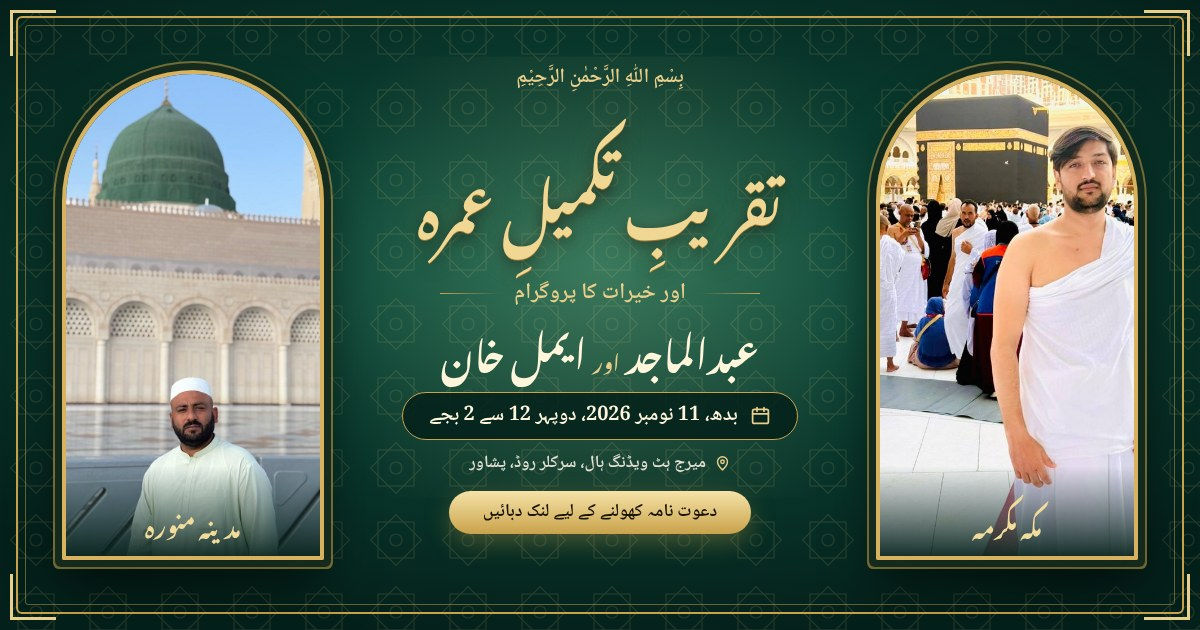
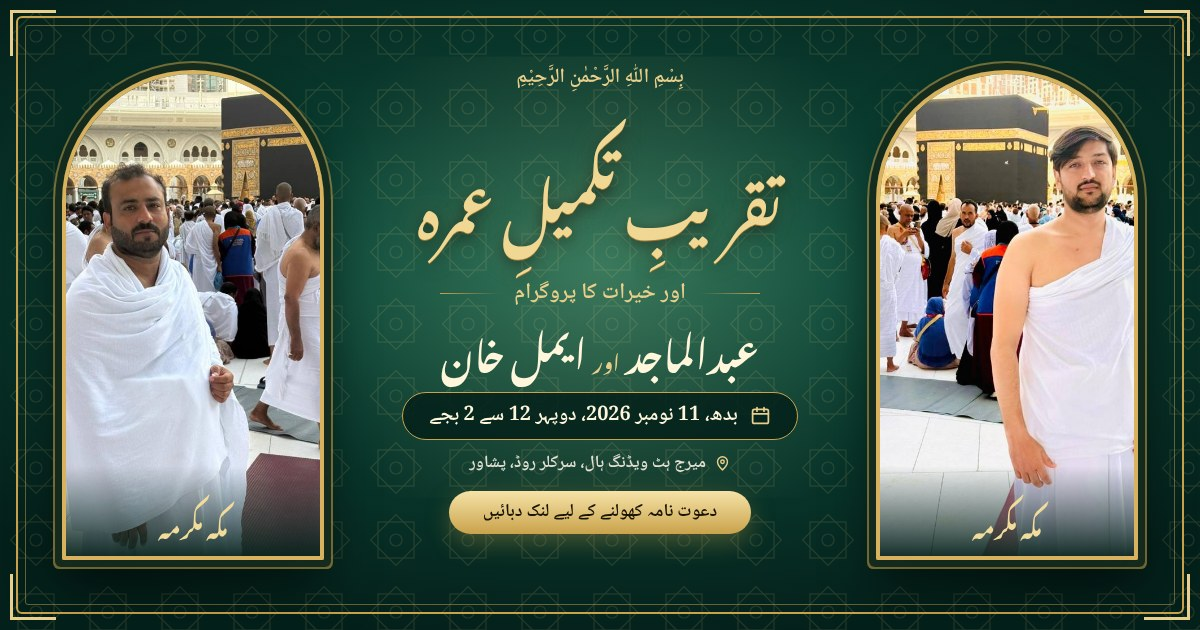
Thumbnails: Makkah photos of both (#12)
* UI polish: raise tiny text (dock labels, drag hint, footer) to 13px and improve hint contrast

Claude-Session: https://claude.ai/code/session_01PSUVtb5hPzZw6eqWCLbAgH

* Details upgrade: add English lines to date, time, venue, address and program; remove duplicated date/time row from location card

Claude-Session: https://claude.ai/code/session_01PSUVtb5hPzZw6eqWCLbAgH

* SEO and a11y upgrade: Event JSON-LD, canonical, og:locale, twitter tags; countdown as timer (no live-region spam); lang=en on English lines

Claude-Session: https://claude.ai/code/session_01PSUVtb5hPzZw6eqWCLbAgH

* Add UX profile, CLAUDE.md; no-JS fallback, press feedback, calendar reminders and description

Claude-Session: https://claude.ai/code/session_01PSUVtb5hPzZw6eqWCLbAgH

* Add full English version with language switch, Tailwind CSS pipeline, landscape/short-screen layout, offline support

- src/i18n.js: Urdu/English switch (text, labels, alt text, meta, WhatsApp text, copy/share text), ltr layout, remembered choice, ?lang=en
- Tailwind CSS 3 (prefix tw-, preflight off) compiled to src/tw.css and inlined by build.py; used for the new language button
- Short viewport rules for landscape phones, 320px fixes
- manifest + network-first service worker for offline opening

Claude-Session: https://claude.ai/code/session_01PSUVtb5hPzZw6eqWCLbAgH

* Stop Vercel from auto-running a build: rename npm scripts, add vercel.json for static serving
[…]

Changed region(s): [[0.0308, 0.1206, 0.2775, 0.8746]]

diff --git a/index.html b/index.html
@@ -8,27 +8,27 @@
 <meta property="og:title" content="تقریبِ تکمیلِ عمرہ کا دعوت نامہ">
 <meta property="og:description" content="بدھ 11 نومبر 2026، دوپہر 12 سے 2 بجے، میرج ہٹ ویڈنگ ہال، سرکلر روڈ، پشاور">
 <meta property="og:site_name" content="دعوت نامہ، Umrah Invitation">
-<meta property="og:image" content="https://umrah-psi.vercel.app/og.jpg?v=11nov3">
-<meta property="og:image:secure_url" content="https://umrah-psi.vercel.app/og.jpg?v=11nov3">
+<meta property="og:image" content="https://umrah-psi.vercel.app/og.jpg?v=11nov4">
+<meta property="og:image:secure_url" content="https://umrah-psi.vercel.app/og.jpg?v=11nov4">
 <meta property="og:image:type" content="image/jpeg">
 <meta property="og:image:width" content="1200"><meta property="og:image:height" content="630">
 <meta property="og:image:alt" content="تقریبِ تکمیلِ عمرہ کا دعوت نامہ">
-<meta property="og:image" content="https://umrah-psi.vercel.app/thumbnails/umrah-invite-square.jpg?v=11nov3">
+<meta property="og:image" content="https://umrah-psi.vercel.app/thumbnails/umrah-invite-square.jpg?v=11nov4">
 <meta property="og:image:type" content="image/jpeg">
 <meta property="og:image:width" content="1080"><meta property="og:image:height" content="1080">
 <meta property="og:url" content="https://umrah-psi.vercel.app/">
 <meta name="twitter:card" content="summary_large_image">
 <meta name="twitter:title" content="تقریبِ تکمیلِ عمرہ کا دعوت نامہ">
-<meta name="twitter:image" content="https://umrah-psi.vercel.app/og.jpg?v=11nov3">
+<meta name="twitter:image" content="https://umrah-psi.vercel.app/og.jpg?v=11nov4">
 <meta name="twitter:image:alt" content="تقریبِ تکمیلِ عمرہ کا دعوت نامہ">
-<link rel="image_src" href="https://umrah-psi.vercel.app/og.jpg?v=11nov3">
+<link rel="image_src" href="https://umrah-psi.vercel.app/og.jpg?v=11nov4">
 <meta property="og:locale" content="ur_PK">
 <meta name="color-scheme" content="dark">
 <link rel="manifest" href="manifest.webmanifest">
 <link rel="apple-touch-icon" href="thumbnails/umrah-invite-square.jpg">
 <link rel="canonical" href="https://umrah-psi.vercel.app/">
 <noscript><style>#gate{display:none!important}body.locked{overflow:auto!important;height:auto!important;touch-action:auto!important}.reveal{opacity:1!important;transform:none!important}</style></noscript>
-<script type="application/ld+json">{"@context":"https://schema.org","@type":"Event","name":"تقریبِ تکمیلِ عمرہ (Umrah Completion Celebration)","description":"عمرہ کی تکمیل پر خیرات (دعوتِ طعام) کی تقریب۔","startDate":"2026-11-11T12:00:00+05:00","endDate":"2026-11-11T14:00:00+05:00","eventStatus":"https://schema.org/EventScheduled","eventAttendanceMode":"https://schema.org/OfflineEventAttendanceMode","inLanguage":"ur","image":"https://umrah-psi.vercel.app/og.jpg?v=11nov3","location":{"@type":"Place","name":"Marriage Hut Wedding Hall","address":{"@type":"PostalAddress","streetAddress":"Circular Road, near Haidri Petrol Pump","addressLocality":"Peshawar","addressCountry":"PK"}}}</script>
+<script type="application/ld+json">{"@context":"https://schema.org","@type":"Event","name":"تقریبِ تکمیلِ عمرہ (Umrah Completion Celebration)","description":"عمرہ کی تکمیل پر خیرات (دعوتِ طعام) کی تقریب۔","startDate":"2026-11-11T12:00:00+05:00","endDate":"2026-11-11T14:00:00+05:00","eventStatus":"https://schema.org/EventScheduled","eventAttendanceMode":"https://schema.org/OfflineEventAttendanceMode","inLanguage":"ur","image":"https://umrah-psi.vercel.app/og.jpg?v=11nov4","location":{"@type":"Place","name":"Marriage Hut Wedding Hall","address":{"@type":"PostalAddress","streetAddress":"Circular Road, near Haidri Petrol Pump","addressLocality":"Peshawar","addressCountry":"PK"}}}</script>
 <meta name="theme-color" content="#04201A">
 <title>تقریبِ تکمیلِ عمرہ کا دعوت نامہ</title>
 <style>*,:after,:before{--tw-border-spacing-x:0;--tw-border-spacing-y:0;--tw-translate-x:0;--tw-translate-y:0;--tw-rotate:0;--tw-skew-x:0;--tw-skew-y:0;--tw-scale-x:1;--tw-scale-y:1;--tw-pan-x: ;--tw-pan-y: ;--tw-pinch-zoom: ;--tw-scroll-snap-strictness:proximity;--tw-gradient-from-position: ;--tw-gradient-via-position: ;--tw-gradient-to-position: ;--tw-ordinal: ;--tw-slashed-zero: ;--tw-numeric-figure: ;--tw-numeric-spacing: ;--tw-numeric-fraction: ;--tw-ring-inset: ;--tw-ring-offset-width:0px;--tw-ring-offset-color:#fff;--tw-ring-color:rgba(59,130,246,.5);--tw-ring-offset-shadow:0 0 #0000;--tw-ring-shadow:0 0 #0000;--tw-shadow:0 0 #0000;--tw-shadow-colored:0 0 #0000;--tw-blur: ;--tw-brightness: ;--tw-contrast: ;--tw-grayscale: ;--tw-hue-rotate: ;--tw-invert: ;--tw-saturate: ;--tw-sepia: ;--tw-drop-shadow: ;--tw-backdrop-blur: ;--tw-backdrop-brightness: ;--tw-backdrop-contrast: ;--tw-backdrop-grayscale: ;--tw-backdrop-hue-rotate: ;--tw-backdrop-invert: ;--tw-backdrop-opacity: ;--tw-backdrop-saturate: ;--tw-backdrop-sepia: ;--tw-contain-size: ;--tw-contain-layout: ;--tw-contain-paint: ;--tw-contain-style: }::backdrop{--tw-border-spacing-x:0;--tw-border-spacing-y:0;--tw-translate-x:0;--tw-translate-y:0;--tw-rotate:0;--tw-skew-x:0;--tw-skew-y:0;--tw-scale-x:1;--tw-scale-y:1;--tw-pan-x: ;--tw-pan-y: ;--tw-pinch-zoom: ;--tw-scroll-snap-strictness:proximity;--tw-gradient-from-position: ;--tw-gradient-via-position: ;--tw-gradient-to-position: ;--tw-ordinal: ;--tw-slashed-zero: ;--tw-numeric-figure: ;--tw-numeric-spacing: ;--tw-numeric-fraction: ;--tw-ring-inset: ;--tw-ring-offset-width:0px;--tw-ring-offset-color:#fff;--tw-ring-color:rgba(59,130,246,.5);--tw-ring-offset-shadow:0 0 #0000;--tw-ring-shadow:0 0 #0000;--tw-shadow:0 0 #0000;--tw-shadow-colored:0 0 #0000;--tw-blur: ;--tw-brightness: ;--tw-contrast: ;--tw-grayscale: ;--tw-hue-rotate: ;--tw-invert: ;--tw-saturate: ;--tw-sepia: ;--tw-drop-shadow: ;--tw-backdrop-blur: ;--tw-backdrop-brightness: ;--tw-backdrop-contrast: ;--tw-backdrop-grayscale: ;--tw-backdrop-hue-rotate: ;--tw-backdrop-invert: ;--tw-backdrop-opacity: ;--tw-backdrop-saturate: ;--tw-backdrop-sepia: ;--tw-contain-size: ;--tw-contain-layout: ;--tw-contain-paint: ;--tw-contain-style: }.tw-sr-only{position:absolute;width:1px;height:1px;padding:0;margin:-1px;overflow:hidden;clip:rect(0,0,0,0);white-space:nowrap;border-width:0}.tw-fixed{position:fixed}.tw-end-3{inset-inline-end:.75rem}.tw-top-2\.5{top:.625rem}.tw-z-\[60\]{z-index:60}.tw-m-0{margin:0}.tw-mx-auto{margin-left:auto;margin-right:auto}.tw-mb-0{margin-bottom:0}.tw-mb-1{margin-bottom:.25rem}.tw-mb-3{margin-bottom:.75rem}.tw-mb-6{margin-bottom:1.5rem}.tw-mt-0{margin-top:0}.tw-mt-1{margin-top:.25rem}.tw-mt-2{margin-top:.5rem}.tw-mt-3{margin-top:.75rem}.tw-mt-4{margin-top:1rem}.tw-mt-8{margin-top:2rem}.tw-block{display:block}.tw-flex{display:flex}.tw-inline-flex{display:inline-flex}.tw-grid{display:grid}.tw-min-h-\[44px\]{min-height:44px}.tw-min-h-\[48px\]{min-height:48px}.tw-w-full{width:100%}.tw-max-w-3xl{max-width:48rem}.tw-cursor-pointer{cursor:pointer}.tw-grid-cols-2{grid-template-columns:repeat(2,minmax(0,1fr))}.tw-flex-wrap{flex-wrap:wrap}.tw-items-end{align-items:flex-end}.tw-items-center{align-items:center}.tw-justify-between{justify-content:space-between}.tw-gap-2{gap:.5rem}.tw-gap-3{gap:.75rem}.tw-overflow-x-auto{overflow-x:auto}.tw-rounded-2xl{border-radius:1rem}.tw-rounded-full{border-radius:9999px}.tw-rounded-xl{border-radius:.75rem}.tw-border{border-width:1px}.tw-border-0{border-width:0}.tw-border-\[\#F0A6A0\]\/60{border-color:hsla(5,73%,78%,.6)}.tw-border-gold\/30{border-color:rgba(201,162,75,.3)}.tw-border-gold\/40{border-color:rgba(201,162,75,.4)}.tw-border-gold\/60{border-color:rgba(201,162,75,.6)}.tw-border-gold\/70{border-color:rgba(201,162,75,.7)}.tw-bg-\[\#7A1F2B\]\/30{background-color:rgba(122,31,43,.3)}.tw-bg-em\/30{background-color:rgba(14,75,59,.3)}.tw-bg-em\/40{background-color:rgba(14,75,59,.4)}.tw-bg-gold2{--tw-bg-opacity:1;background-color:rgb(233 207 139/var(--tw-bg-opacity,1))}.tw-bg-night{--tw-bg-opacity:1;background-color:rgb(4 32 26/var(--tw-bg-opacity,1))}.tw-bg-night\/90{background-color:rgba(4,32,26,.9)}.tw-bg-transparent{background-color:transparent}.tw-p-4{padding:1rem}.tw-p-5{padding:1.25rem}.tw-px-3{padding-left:.75rem;padding-right:.75rem}.tw-px-4{padding-left:1rem;padding-right:1rem}.tw-pb-16{padding-bottom:4rem}.tw-pt-8{padding-top:2rem}.tw-font-naskh{font-family:Naskh,serif}.tw-text-3xl{font-size:1.875rem;line-height:2.25rem}.tw-text-base{font-size:1rem;line-height:1.5rem}.tw-text-sm{font-size:.875rem;line-height:1.25rem}.tw-text-xl{font-size:1.25rem;line-height:1.75rem}.tw-font-semibold{font-weight:600}.tw-leading-relaxed{line-height:1.625}.tw-text-\[\#FFC9C2\]{--tw-text-opacity:1;color:rgb(255 201 194/var(--tw-text-opacity,1))}.tw-text-gold2{--tw-text-opacity:1;color:rgb(233 207 139/var(--tw-text-opacity,1))}.tw-text-ivory{--tw-text-opacity:1;color:rgb(247 241 227/var(--tw-text-opacity,1))}.tw-text-ivory\/70{color:hsla(42,56%,93%,.7)}.tw-text-ivory\/75{color:hsla(42,56%,93%,.75)}.tw-text-ivory\/80{color:hsla(42,56%,93%,.8)}.tw-text-night{--tw-text-opacity:1;color:rgb(4 32 26/var(--tw-text-opacity,1))}.tw-shadow-lg{--tw-shadow:0 10px 15px -3px rgba(0,0,0,.1),0 4px 6px -4px rgba(0,0,0,.1);--tw-shadow-colored:0 10px 15px -3px var(--tw-shadow-color),0 4px 6px -4px var(--tw-shadow-color);box-shadow:var(--tw-ring-offset-shadow,0 0 #0000),var(--tw-ring-shadow,0 0 #0000),var(--tw-shadow)}.tw-shadow-black\/40{--tw-shadow-color:rgba(0,0,0,.4);--tw-shadow:var(--tw-shadow-colored)}.tw-transition{transition-property:color,background-color,border-color,text-decoration-color,fill,stroke,opacity,box-shadow,transform,filter,-webkit-backdrop-filter;transition-property:color,background-color,border-color,text-decoration-color,fill,stroke,opacity,box-shadow,transform,filter,backdrop-filter;transition-property:color,background-color,border-color,text-decoration-color,fill,stroke,opacity,box-shadow,transform,filter,backdrop-filter,-webkit-backdrop-filter;transition-timing-function:cubic-bezier(.4,0,.2,1);transition-duration:.15s}.hover\:tw-bg-em:hover{--tw-bg-opacity:1;background-color:rgb(14 75 59/var(--tw-bg-opacity,1))}.focus-visible\:tw-outline:focus-visible{outline-style:solid}.focus-visible\:tw-outline-2:focus-visible{outline-width:2px}.focus-visible\:tw-outline-offset-2:focus-visible{outline-offset:2px}.focus-visible\:tw-outline-white:focus-visible{outline-color:#fff}.active\:tw-scale-95:active{--tw-scale-x:.95;--tw-scale-y:.95;transform:translate(var(--tw-translate-x),var(--tw-translate-y)) rotate(var(--tw-rotate)) skewX(var(--tw-skew-x)) skewY(var(--tw-skew-y)) scaleX(var(--tw-scale-x)) scaleY(var(--tw-scale-y))}@media (min-width:640px){.sm\:tw-grid-cols-4{grid-template-columns:repeat(4,minmax(0,1fr))}}</style>

diff --git a/src/template.html b/src/template.html
@@ -8,27 +8,27 @@
 <meta property="og:title" content="تقریبِ تکمیلِ عمرہ کا دعوت نامہ">
 <meta property="og:description" content="بدھ 11 نومبر 2026، دوپہر 12 سے 2 بجے، میرج ہٹ ویڈنگ ہال، سرکلر روڈ، پشاور">
 <meta property="og:site_name" content="دعوت نامہ، Umrah Invitation">
-<meta property="og:image" content="{{SITE}}/og.jpg?v=11nov3">
-<meta property="og:image:secure_url" content="{{SITE}}/og.jpg?v=11nov3">
+<meta property="og:image" content="{{SITE}}/og.jpg?v=11nov4">
+<meta property="og:image:secure_url" content="{{SITE}}/og.jpg?v=11nov4">
 <meta property="og:image:type" content="image/jpeg">
 <meta property="og:image:width" content="1200"><meta property="og:image:height" content="630">
 <meta property="og:image:alt" content="تقریبِ تکمیلِ عمرہ کا دعوت نامہ">
-<meta property="og:image" content="{{SITE}}/thumbnails/umrah-invite-square.jpg?v=11nov3">
+<meta property="og:image" content="{{SITE}}/thumbnails/umrah-invite-square.jpg?v=11nov4">
 <meta property="og:image:type" content="image/jpeg">
 <meta property="og:image:width" content="1080"><meta property="og:image:height" content="1080">
 <meta property="og:url" content="{{SITE}}/">
 <meta name="twitter:card" content="summary_large_image">
 <meta name="twitter:title" content="تقریبِ تکمیلِ عمرہ کا دعوت نامہ">
-<meta name="twitter:image" content="{{SITE}}/og.jpg?v=11nov3">
+<meta name="twitter:image" content="{{SITE}}/og.jpg?v=11nov4">
 <meta name="twitter:image:alt" content="تقریبِ تکمیلِ عمرہ کا دعوت نامہ">
-<link rel="image_src" href="{{SITE}}/og.jpg?v=11nov3">
+<link rel="image_src" href="{{SITE}}/og.jpg?v=11nov4">
 <meta property="og:locale" content="ur_PK">
 <meta name="color-scheme" content="dark">
 <link rel="manifest" href="manifest.webmanifest">
 <link rel="apple-touch-icon" href="thumbnails/umrah-invite-square.jpg">
 <link rel="canonical" href="{{SITE}}/">
 <noscript><style>#gate{display:none!important}body.locked{overflow:auto!important;height:auto!important;touch-action:auto!important}.reveal{opacity:1!important;transform:none!important}</style></noscript>
-<script type="application/ld+json">{"@context":"https://schema.org","@type":"Event","name":"تقریبِ تکمیلِ عمرہ (Umrah Completion Celebration)","description":"عمرہ کی تکمیل پر خیرات (دعوتِ طعام) کی تقریب۔","startDate":"2026-11-11T12:00:00+05:00","endDate":"2026-11-11T14:00:00+05:00","eventStatus":"https://schema.org/EventScheduled","eventAttendanceMode":"https://schema.org/OfflineEventAttendanceMode","inLanguage":"ur","image":"{{SITE}}/og.jpg?v=11nov3","location":{"@type":"Place","name":"Marriage Hut Wedding Hall","address":{"@type":"PostalAddress","streetAddress":"Circular Road, near Haidri Petrol Pump","addressLocality":"Peshawar","addressCountry":"PK"}}}</script>
+<script type="application/ld+json">{"@context":"https://schema.org","@type":"Event","name":"تقریبِ تکمیلِ عمرہ (Umrah Completion Celebration)","description":"عمرہ کی تکمیل پر خیرات (دعوتِ طعام) کی تقریب۔","startDate":"2026-11-11T12:00:00+05:00","endDate":"2026-11-11T14:00:00+05:00","eventStatus":"https://schema.org/EventScheduled","eventAttendanceMode":"https://schema.org/OfflineEventAttendanceMode","inLanguage":"ur","image":"{{SITE}}/og.jpg?v=11nov4","location":{"@type":"Place","name":"Marriage Hut Wedding Hall","address":{"@type":"PostalAddress","streetAddress":"Circular Road, near Haidri Petrol Pump","addressLocality":"Peshawar","addressCountry":"PK"}}}</script>
 <meta name="theme-color" content="#04201A">
 <title>تقریبِ تکمیلِ عمرہ کا دعوت نامہ</title>
 <style>{{TW}}</style>
